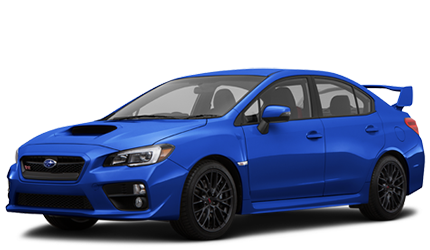
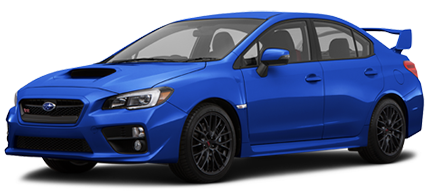
Started mitsubishi responsivness

diff --git a/client/src/index.css b/client/src/index.css
@@ -192,18 +192,18 @@ li:hover {
 }
 
 .mitsuimgs {
-  margin-top: -20px;
   display: flex;
   flex-direction: row;
   flex-wrap: wrap;
   justify-content: space-around;
   align-items: center;
   align-content: center;
+  margin: 4% 0;
 }
 
 .evo9img {
-  width: 750px;
-  height: 430px;
+  width: 602px;
+  height: 293px;
 }
 .evo9img:hover {
   transition: 300ms;
@@ -211,8 +211,8 @@ li:hover {
   filter: drop-shadow(0px 0px 10px rgb(255, 255, 255));
 }
 .evoximg {
-  width: 720px;
-  height: 430px;
+  width: 623px;
+  height: 313px;
 }
 .evoximg:hover {
   transition: 300ms;
@@ -227,12 +227,12 @@ li:hover {
   justify-content: space-around;
   align-items: center;
   align-content: center;
+  margin: 4% 0;
 }
 
 .brzimg {
-  margin-top: 110px;
-  width: 550px;
-  height: 280px;
+  width: 428px;
+  height: 208px;
 }
 .brzimg:hover {
   transition: 300ms;
@@ -241,8 +241,8 @@ li:hover {
 }
 .stiimg {
   margin: 10px;
-  width: 610px;
-  height: 360px;
+  width: 428px;
+  height: 193px;
 }
 .stiimg:hover {
   transition: 300ms;
@@ -545,10 +545,10 @@ textarea {
     justify-content: space-around;
     align-content: center;
     align-items: center;
-}
-.brandimg > * {
-  margin: 4% 0;
-}
+  }
+  .brandimg > * {
+    margin: 4% 0;
+  }
 }
 
 @media screen and (max-width: 922px) {
@@ -556,37 +556,41 @@ textarea {
     position: relative;
     margin: 0 auto;
     width: 89.3vw;
-}
-.aboutinfo {
-  width: 89.3vw;
-}
+  }
+  .aboutinfo {
+    width: 89.3vw;
+  }
 }
 
 @media screen and (max-width: 622px) {
   .subarulogo {
     width: 90.6vw;
     height: 54.4vw;
+  }
+  .mitlogo {
+    width: 40.2vw;
+    height: 48.24vw;
+  }
+  .bmwlogo {
+    width: 40.2vw;
+    height: 40.2vw;
+  }
+  .brzimg {
+    margin-top: 110px;
+    width: 81vw;
+    height: 39.9vw;
+  }
+  .stiimg {
+    margin: 10px;
+    width: 81.87vw;
+    height: 37vw;
 }
-.mitlogo {
-  width: 40.2vw;
-  height: 48.24vw;
-}
-.bmwlogo {
-  width: 40.2vw;
-  height: 40.2vw;
-}
-.brzimg {
-  margin-top: 110px;
-  width: 81vw;
-  height: 39.9vw;
-}
-.stiimg {
-  margin: 10px;
-  width: 90.85vw;
-  height: 48.3vw;
-}
-.carmodelname {
-  font-size: 12vw;
+  .carmodelname {
+    font-size: 12vw;
+  }
+  .evo9img {
+    width: 120.6vw;
+    height: 72.4vw;
 }
 }
 
